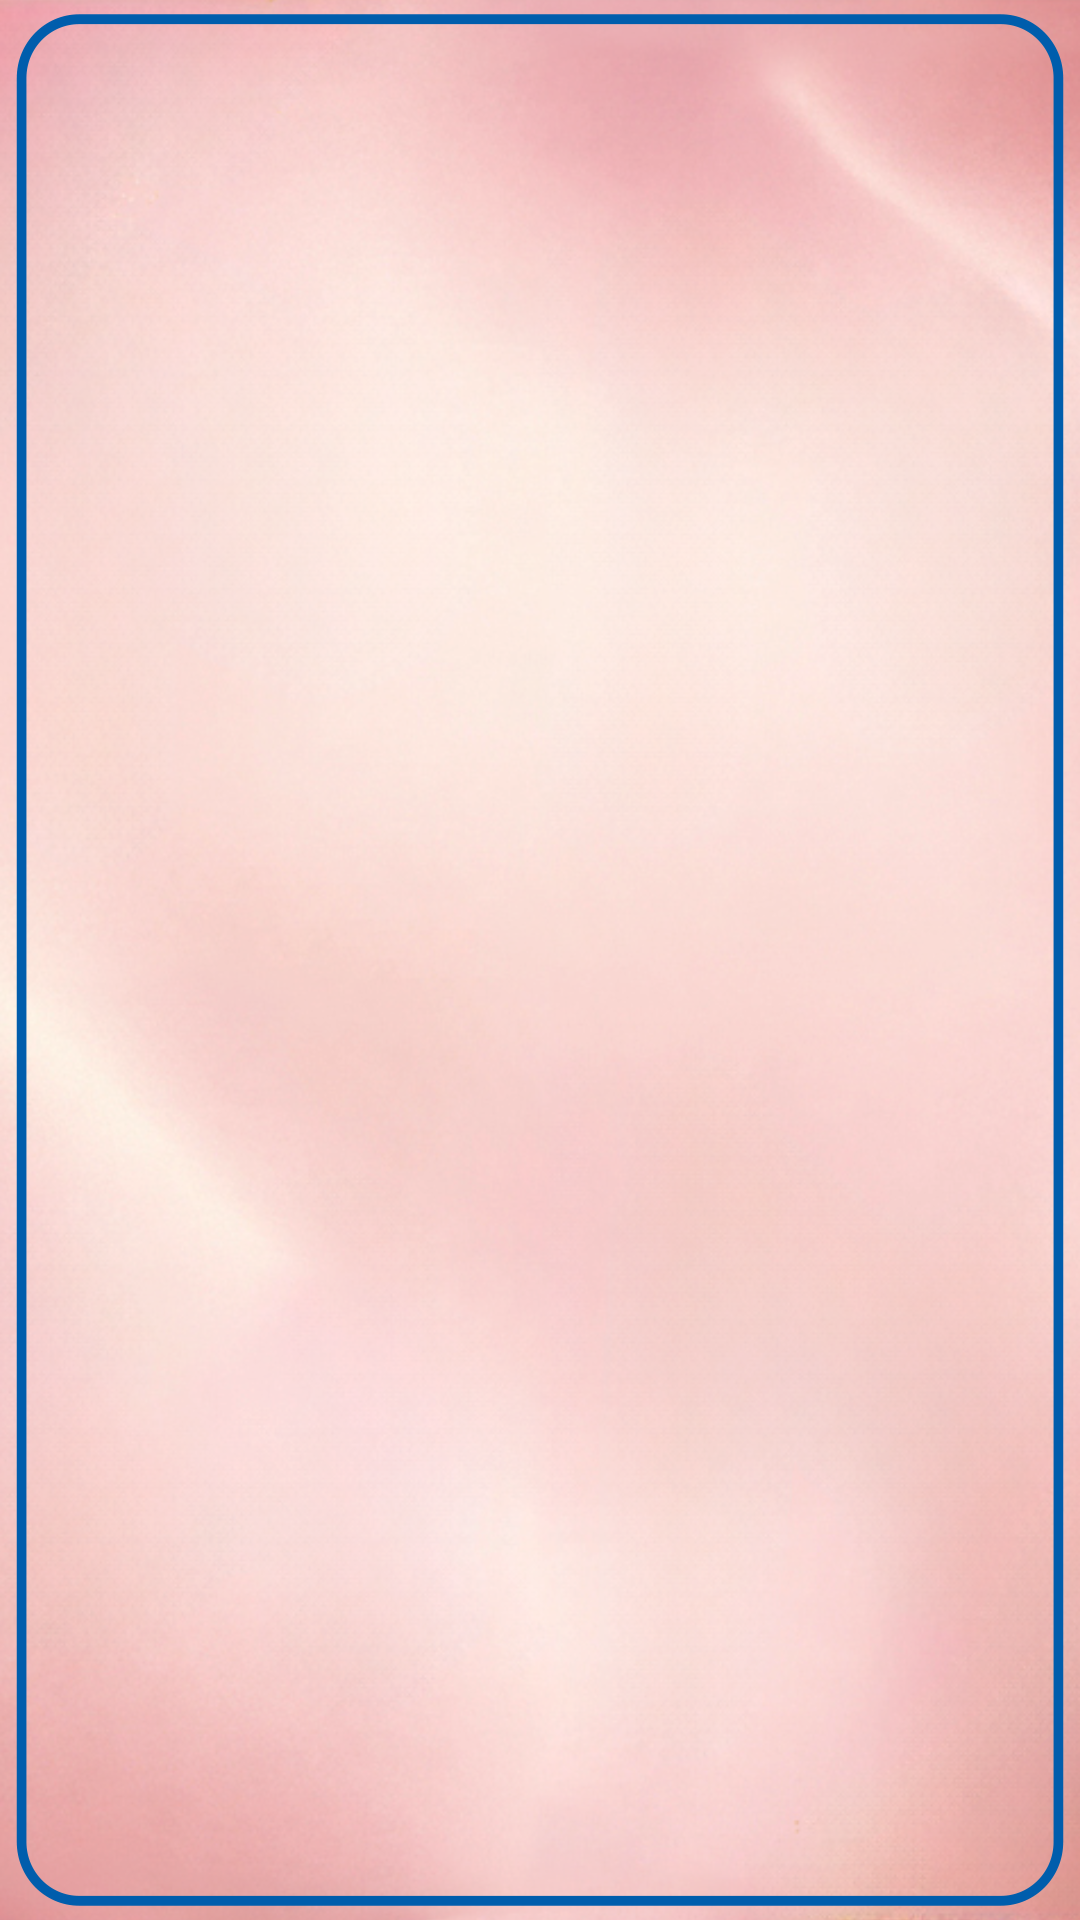
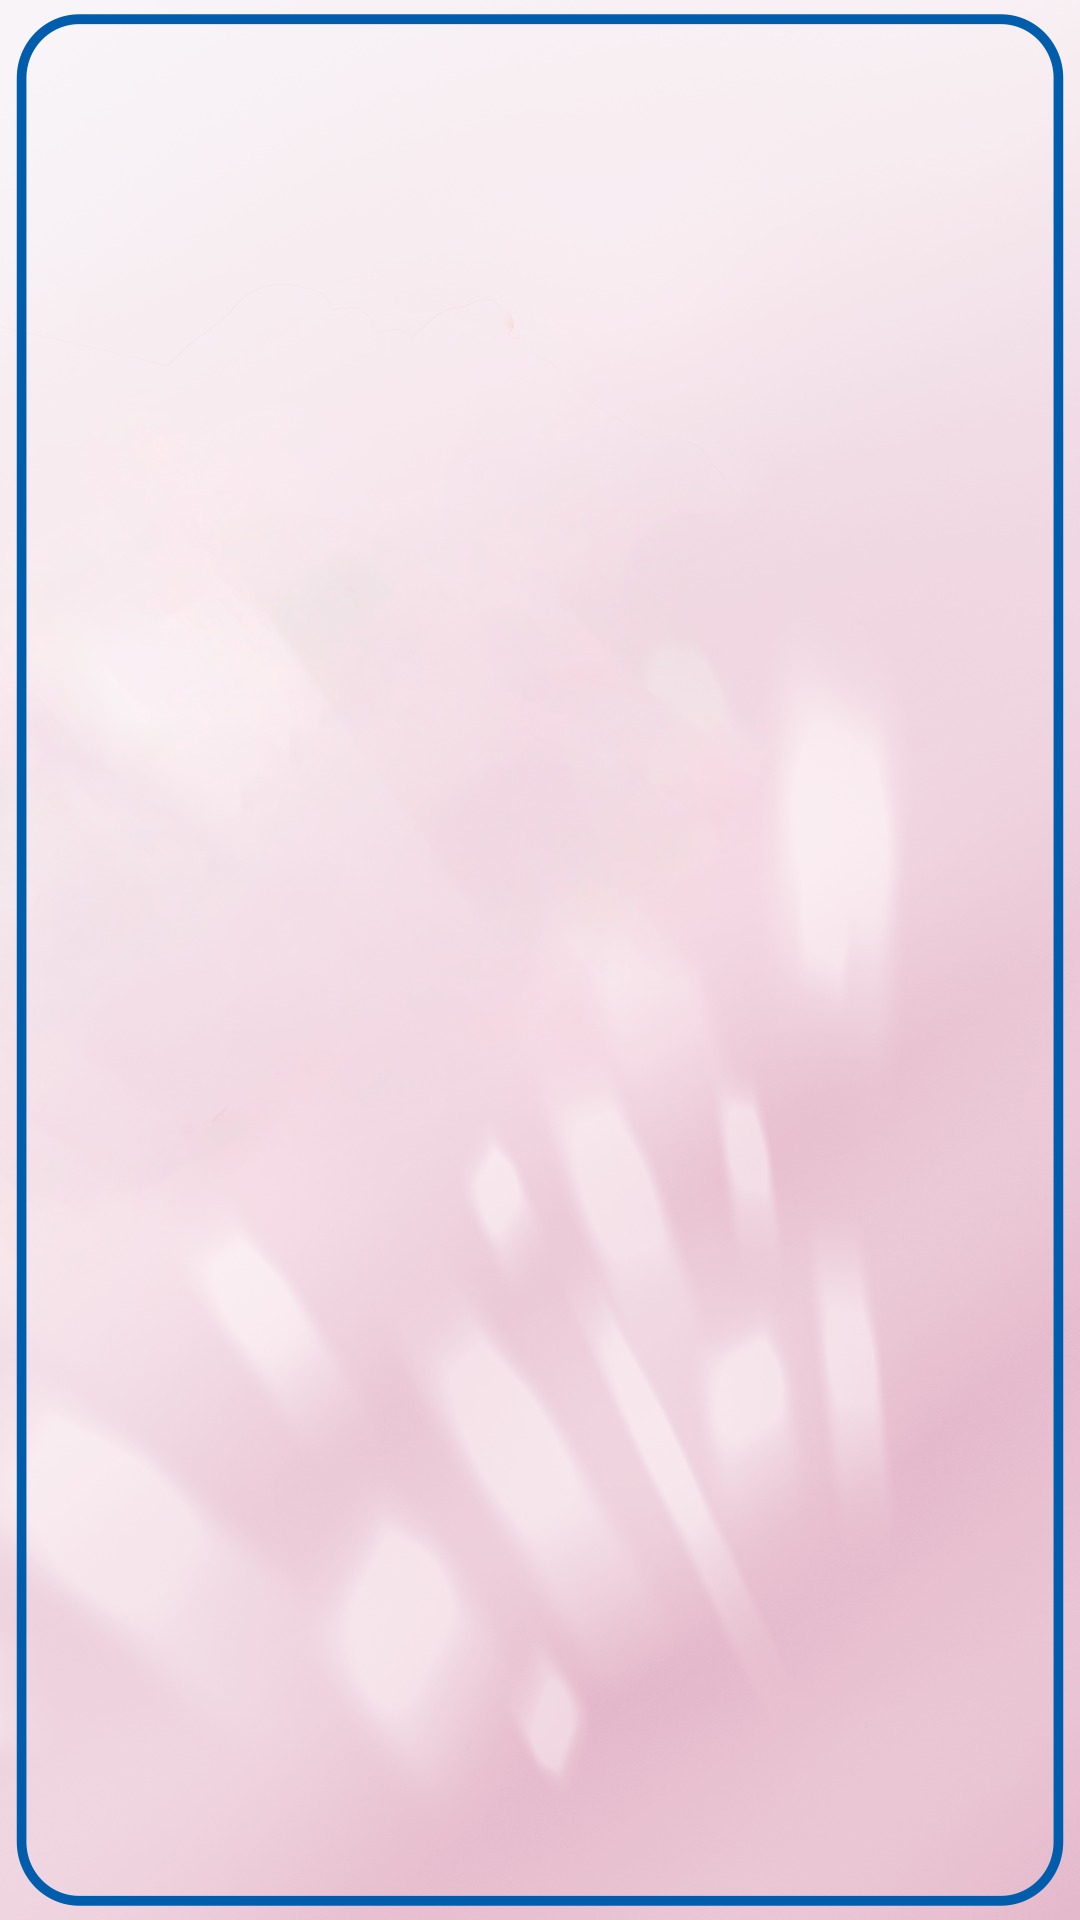
Reduce overlay spawn rate; update media assets
Decrease OVERLAY_SPAWNS_PER_SECOND from 15 to 8 to reduce celebration overlay intensity. Replace several public media assets: Agree.png, LEDbackground.png, userbackground.png, fillingvideo.mp4, and firecountdown.mp4.

diff --git a/lib/constants.ts b/lib/constants.ts
@@ -27,7 +27,7 @@ export const COUNTER_HOLD_MS = 3000;
 export const BOTTOM_COUNTER_ROLL_PER_SEC = 13;
 
 // Celebration overlay
-export const OVERLAY_SPAWNS_PER_SECOND = 15;
+export const OVERLAY_SPAWNS_PER_SECOND = 8;
 // Message SFX during the video phase: each second fires a random number of
 // plays in this inclusive range.
 export const MESSAGE_PLAYS_PER_SEC_MIN = 1;